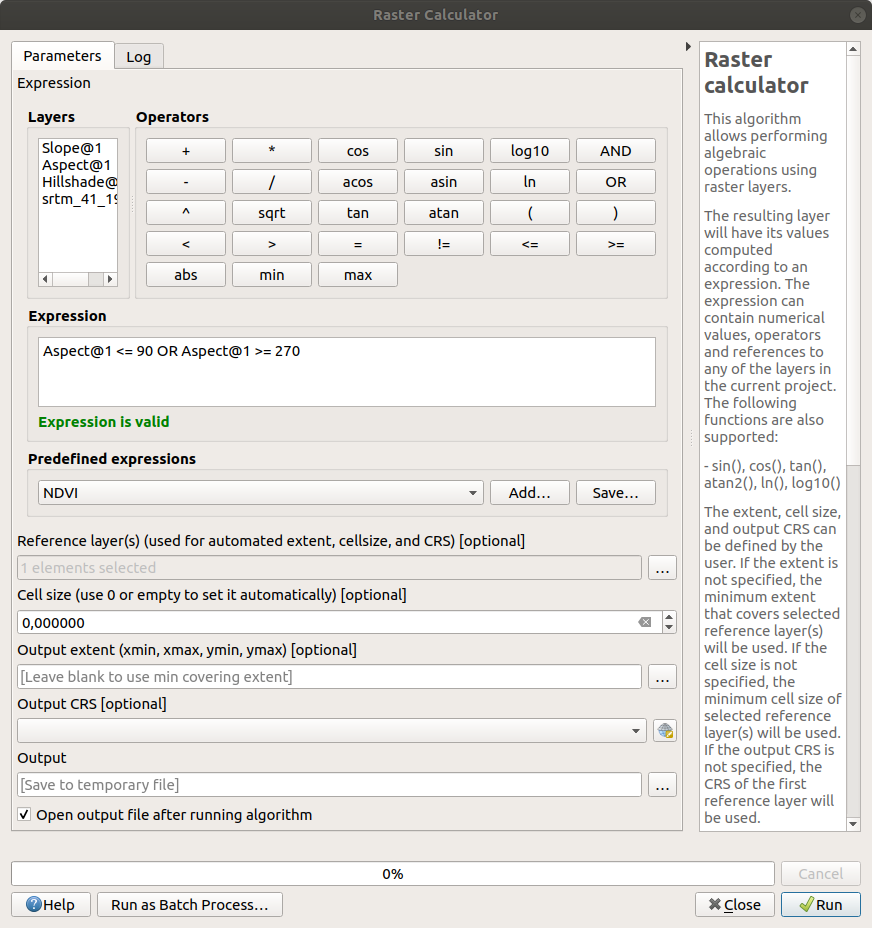
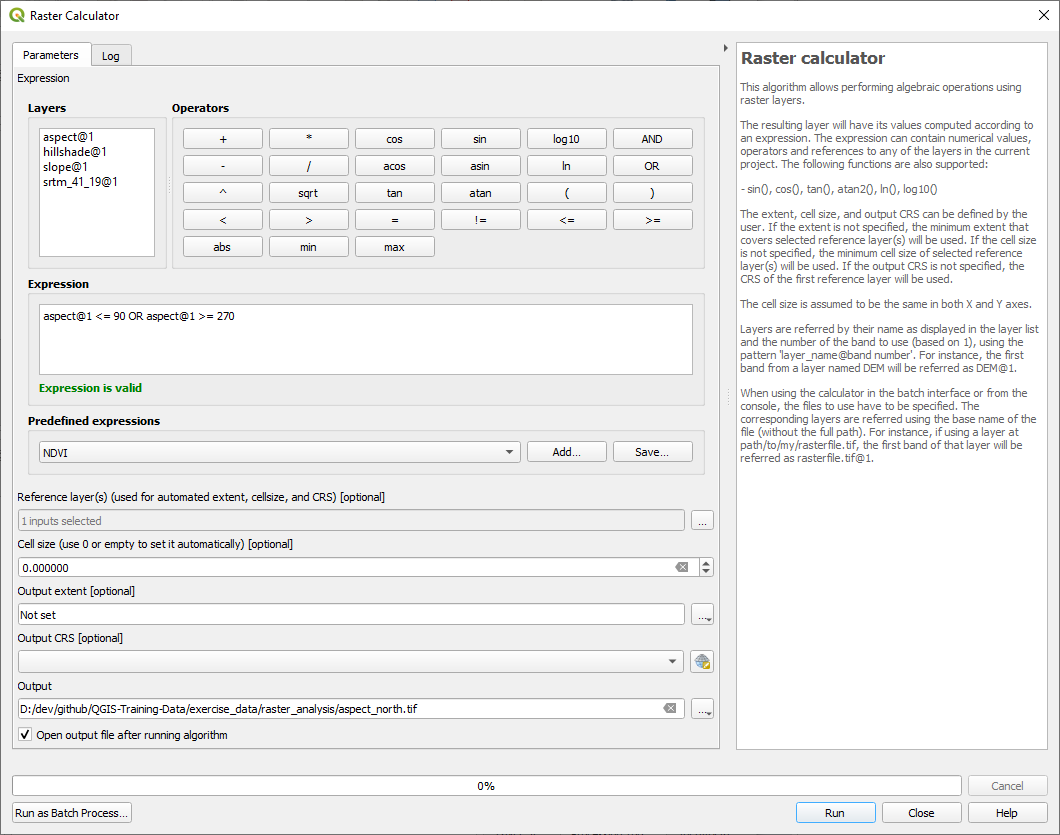
Add/fix details to the instructions
update screenshot
tweak some description

Changed region(s): [[0.0, 0.0, 1.0, 1.0]]

diff --git a/docs/training_manual/rasters/terrain_analysis.rst b/docs/training_manual/rasters/terrain_analysis.rst
@@ -37,12 +37,16 @@ We are going to use algorithms in the
    (East), 180 (South) and 270 (West), while the
    :guilabel:`Vertical angle` sets how high the light source is
    (0 to 90 degrees).
-   We will use the default values:
+#. We will use the following values:
+
+   * :guilabel:`Z factor` at ``1.0``
+   * :guilabel:`Azimuth (horizontal angle)` at ``300.0``\°
+   * :guilabel:`Vertical angle` at ``40.0``\°
 
    .. figure:: img/hillshade_explanation.png
       :align: center
 
-#. Save the file in a new folder ``raster_analysis`` within the folder ``exercise_data``
+#. Save the file in a new folder :file:`exercise_data/raster_analysis/`
    with the name ``hillshade``
 #. Finally click on :guilabel:`Run`
 
@@ -110,21 +114,22 @@ Let's find the best areas for them.
 |moderate| |FA| Calculating the Slope
 ----------------------------------------------------------------------
 
-Another useful thing to know about the terrain is how steep it is. If, for
-example, you want to build houses on the land there, then you need land
+*Slope* informs about how steep the terrain is. If, for example,
+you want to build houses on the land there, then you need land
 that is relatively flat.
 
-To do this, you need to use the :menuselection:`Slope` algorithm of the
-:menuselection:`Processing --> Raster terrain analysis`.
+To calculate the slope, you need to use the :menuselection:`Slope` algorithm
+of the :menuselection:`Processing --> Raster terrain analysis`.
 
 #. Open the algorithm
 #. Choose :guilabel:`srtm_41_19` as the :guilabel:`Elevation layer`
+#. Keep the :guilabel:`Z factor` at ``1.0``
 #. Save the output as a file with the name ``slope`` in the same folder as the
    ``hillshade``
 #. Click on :guilabel:`Run`
 
-Now you'll see the slope of the terrain, with black pixels being flat terrain
-and white pixels, steep terrain:
+Now you'll see the slope of the terrain, each pixel holding the correponding
+slope value. Black pixels show flat terrain and white pixels, steep terrain:
 
 .. figure:: img/slope_raster.png
    :align: center
@@ -143,15 +148,16 @@ ideally be built on a north-facing slope so that they can remain in the
 sunlight.
 
 Use the :guilabel:`Aspect` algorithm of the
-:menuselection:`Processing --> Raster terrain analysis` to get the layer.
+:menuselection:`Processing --> Raster terrain analysis` to get the ``aspect``
+layer saved along with the ``slope``.
 
 :ref:`Check your results <raster-analysis-1>`
 
-|moderate| |FA| Using the Raster Calculator
+|moderate| |FA| Finding the north-facing aspect
 ----------------------------------------------------------------------
 
-Fortunately, you already have rasters showing you the slope as well as
-the aspect, but you have no way of knowing where both conditions are
+Now, you have rasters showing you the slope as well as the aspect,
+but you have no way of knowing where ideal conditions are
 satisfied at once.
 How could this analysis be done?
 
@@ -182,7 +188,7 @@ the *Processing Toolbox*
      You should see it as a 2D matrix filled with numbers.
 
 #. North is at 0 (zero) degrees, so for the terrain to face north, its
-   aspect needs to be greater than 270 degrees and less than 90
+   aspect needs to be greater than 270 degrees or less than 90
    degrees.
    Therefore the formula is::
 
@@ -212,7 +218,8 @@ Your result will be this:
 
 The output values are ``0`` or ``1``.
 What does it mean?
-The formula we wrote contains the *conditional* operator ``OR``.
+For each pixel in the raster, the formula we wrote returns whether it matches
+the conditions or not.
 Therefore the final result will be **False** (0) and **True** (1).
 
 
@@ -243,7 +250,7 @@ Now you have generated three raster layers from the DEM:
 * :guilabel:`slope_lte2`: slope equal to or below 2 degrees
 * :guilabel:`slope_lte5`: slope equal to or below 5 degrees
 
-Where the conditions are met, the pixel value is ``1``.
+Where the condition is met, the pixel value is ``1``.
 Elsewhere, it is ``0``.
 Therefore, if you multiply these rasters, the pixels that have a value
 of ``1`` for all of them will get a value of ``1`` (the rest will get
@@ -283,7 +290,7 @@ The result:
 ----------------------------------------------------------------------
 
 As you can see from the image above, the combined analysis has left us
-with many, very small areas where the conditions are met.
+with many, very small areas where the conditions are met (in white).
 But these aren't really useful for our analysis, since they are too
 small to build anything on.
 Let us get rid of all these tiny unusable areas.
@@ -383,7 +390,7 @@ in :menuselection:`Raster analysis` in the
 
    The method used by the algorithm to treat the threshold values of
    each class is defined by the :guilabel:`Range boundaries`.
-#. Save the layer as file:`reclassified.tif` in the
+#. Save the layer as :file:`reclassified.tif` in the
    :file:`exercise_data/raster_analysis/` folder
 
    .. figure:: img/reclassify_setup.png

diff --git a/docs/training_manual/answers/answers.rst b/docs/training_manual/answers/answers.rst
@@ -548,7 +548,10 @@ Your result:
 |moderate| *Calculate Slope (less than 2 and 5 degrees)*
 ...............................................................................
 
-* Set your :guilabel:`Raster calculator` dialog up like this:
+* Set your :guilabel:`Raster calculator` dialog up with:
+
+  * the following expression: ``slope@1 <= 2``
+  * the ``slope`` layer as the :guilabel:`Reference layer(s)`
 
   .. figure:: img/answer_raster_calculator_slope.png
      :align: center
